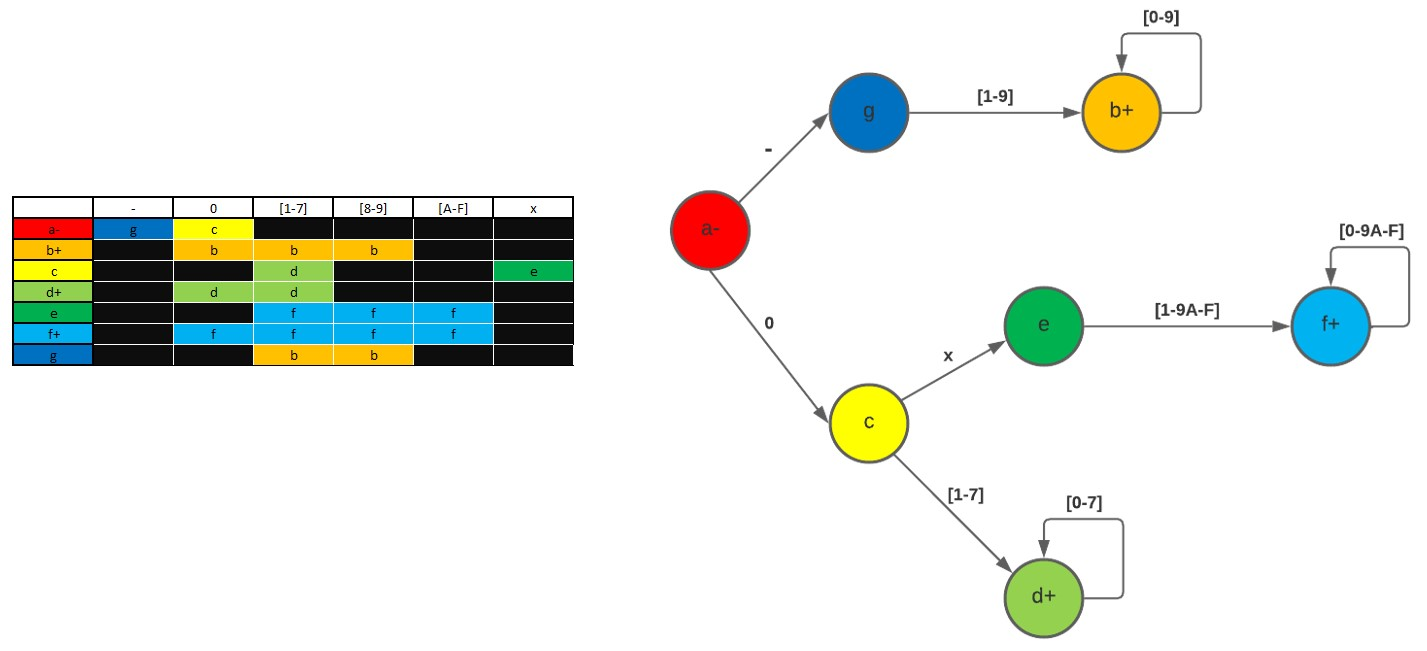
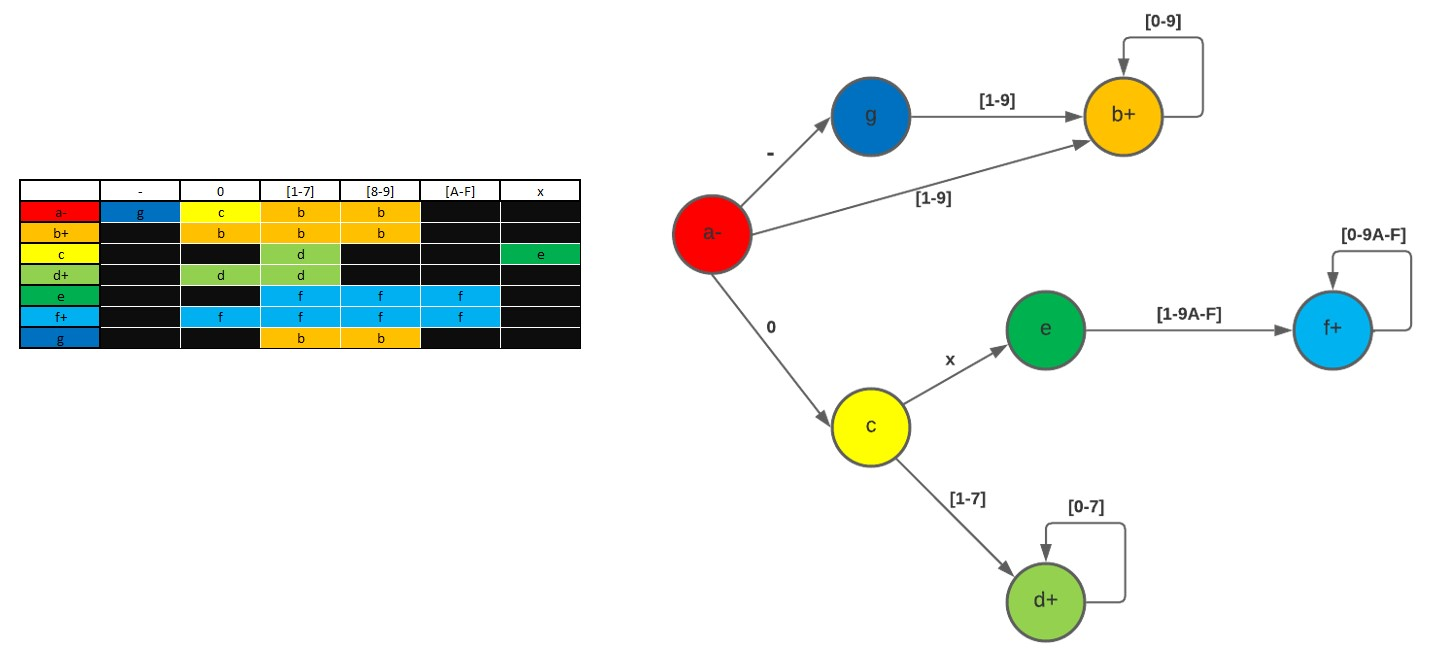
Actualizo automata + logica validador

diff --git a/pilas.c b/pilas.c
@@ -4,8 +4,8 @@
 #include <string.h>
 
 int potenciar(int, int);
-void pushPilaChar(char*);
-const char * popPilaChar();
+void pushPilaNumChar(char[]);
+char * popPilaNumChar();
 int cadenaANum(char*, int);
 int simboloCoincide(char, char[]);
 int validarCadena(char[]);
@@ -15,9 +15,14 @@ struct nodoPilaNum{
     struct nodoPilaNum *sig;
 };
 
-struct nodoPilaChar{
+struct nodoPilaNumChar{
     char val[30];
-    struct nodoPilaChar *sig;
+    struct nodoPilaNumChar *sig;
+};
+
+struct nodoPilaOperador{
+    char val[2];
+    struct nodoPilaOperador *sig;
 };
 
 char octales[] = "1234567";
@@ -25,26 +30,39 @@ char hexadecimales[] = "123456789ABCDEF";
 
 char terminalesEntero[3][10]={"-","0","123456789"};
 
-int estadosEntero[4][3]={
-    {2,4,3},
-    {4,4,3},
-    {4,3,3},
-    {4,4,4}
+int estadosEntero[3][3]={
+    {1,3,2},
+    {3,3,2},
+    {3,2,2}
+};
+
+char terminalesDecOctHex[6][17]={
+    "-",
+    "0",
+    "1234567",
+    "89",
+    "ABCDEF",
+    "x"
+};
+
+int estadosAutomata[7][6]={
+    {6,2,1,1,7,7},
+    {7,1,1,1,7,7},
+    {7,7,3,7,7,4},
+    {7,3,3,7,7,7},
+    {7,7,5,5,5,7},
+    {7,5,5,5,5,7},
+    {7,7,1,1,7,7},
 };
 
 struct nodoPilaNum *headPilaNum;
-struct nodoPilaChar *headPilaChar;
+struct nodoPilaNumChar *headPilaNumChar;
+struct nodoPilaOperador *headPilaOperador;
 //gcc pilas.c -o pilas && pilas.exe
 //-----------------------------------------
 int main(){
-    char cadena[] = "-33482";
-    /*char * roberto = "roberto";
-    char * juancarlos = "juancarlos";
+    char cadena[] = "0x135AFCE42AF";
     //printf("%d", cadenaANum(cadena, sizeof(cadena)));
-    pushPilaChar(roberto);
-    pushPilaChar(juancarlos);
-    printf("%s \n",popPilaChar());
-    printf("%s \n",popPilaChar());*/
     validarCadena(cadena);
 }
 //-----------------------------------------
@@ -88,31 +106,31 @@ int popPilaNum(){
     return 0;
 }
 
-void pushPilaChar(char *val){
-    struct nodoPilaChar *ptr = (struct nodoPilaChar *)malloc(sizeof(struct nodoPilaChar));
+void pushPilaNumChar(char val[]){
+    struct nodoPilaNumChar *ptr = (struct nodoPilaNumChar *)malloc(sizeof(struct nodoPilaNumChar));
 
-    if (headPilaChar == NULL)
+    if (headPilaNumChar == NULL)
     {
         strcpy(ptr->val, val);
         ptr->sig = NULL;
-        headPilaChar = ptr;
+        headPilaNumChar = ptr;
     }
     else
     {
         strcpy(ptr->val, val);
-        ptr->sig = headPilaChar;
-        headPilaChar = ptr;
+        ptr->sig = headPilaNumChar;
+        headPilaNumChar = ptr;
     }
 }
 
-const char *popPilaChar(){
-    char *item;
-    struct nodoPilaChar *ptr;
-    if (headPilaChar != NULL)
+char *popPilaNumChar(){
+    static char item[]="";
+    struct nodoPilaNumChar *ptr;
+    if (headPilaNumChar != NULL)
     {
-        strcpy(item, headPilaChar->val);
-        ptr = headPilaChar;
-        headPilaChar = headPilaChar->sig;
+        strcpy(item, headPilaNumChar->val);
+        ptr = headPilaNumChar;
+        headPilaNumChar = headPilaNumChar->sig;
         free(ptr);
         return item;
     }
@@ -142,22 +160,29 @@ int simboloCoincide(char input, char carac[]){
 }
 
 int validarCadena(char cadena[]){
-    int estado = 1;
+    int estado = 0;
     int caracter = 0;
-    while(estado!=4){
+    while(estado!=7){
         if(cadena[caracter]=='\0'){
-            printf("Cadena valida");
+            printf("Cadena '%s' valida", cadena);
             return 1;
         }
         int caracterValido = 0;
-        for(int i=0; i<3; i++){
+        printf("Estado actual: %d\n\n", estado);
+        for(int i=0; i<6; i++){
             printf("Mirando columna %d\n", i);
-            caracterValido += simboloCoincide(cadena[caracter], terminalesEntero[i]);
-            if(caracterValido>0)
+            if(simboloCoincide(cadena[caracter], terminalesDecOctHex[i])){
+                estado = estadosAutomata[estado][i];
+                printf("Cambio a estado %d\n", estado);
+                caracterValido = 1;
                 break;
+            }
         }
-        if(caracterValido==0)
-            estado=4;
+        if(!caracterValido){
+            estado=7;
+            printf("Cambio a estado %d\n", estado);
+        }
+
         else{
             printf("Caracter '%c' OK\n\n", cadena[caracter]);
             caracter+=1;
@@ -165,6 +190,6 @@ int validarCadena(char cadena[]){
         
         
     }
-    printf("Caracter invalido %c",cadena[caracter]);
+    printf("Cadena '%s' invalida",cadena);
     return 0;
 }
